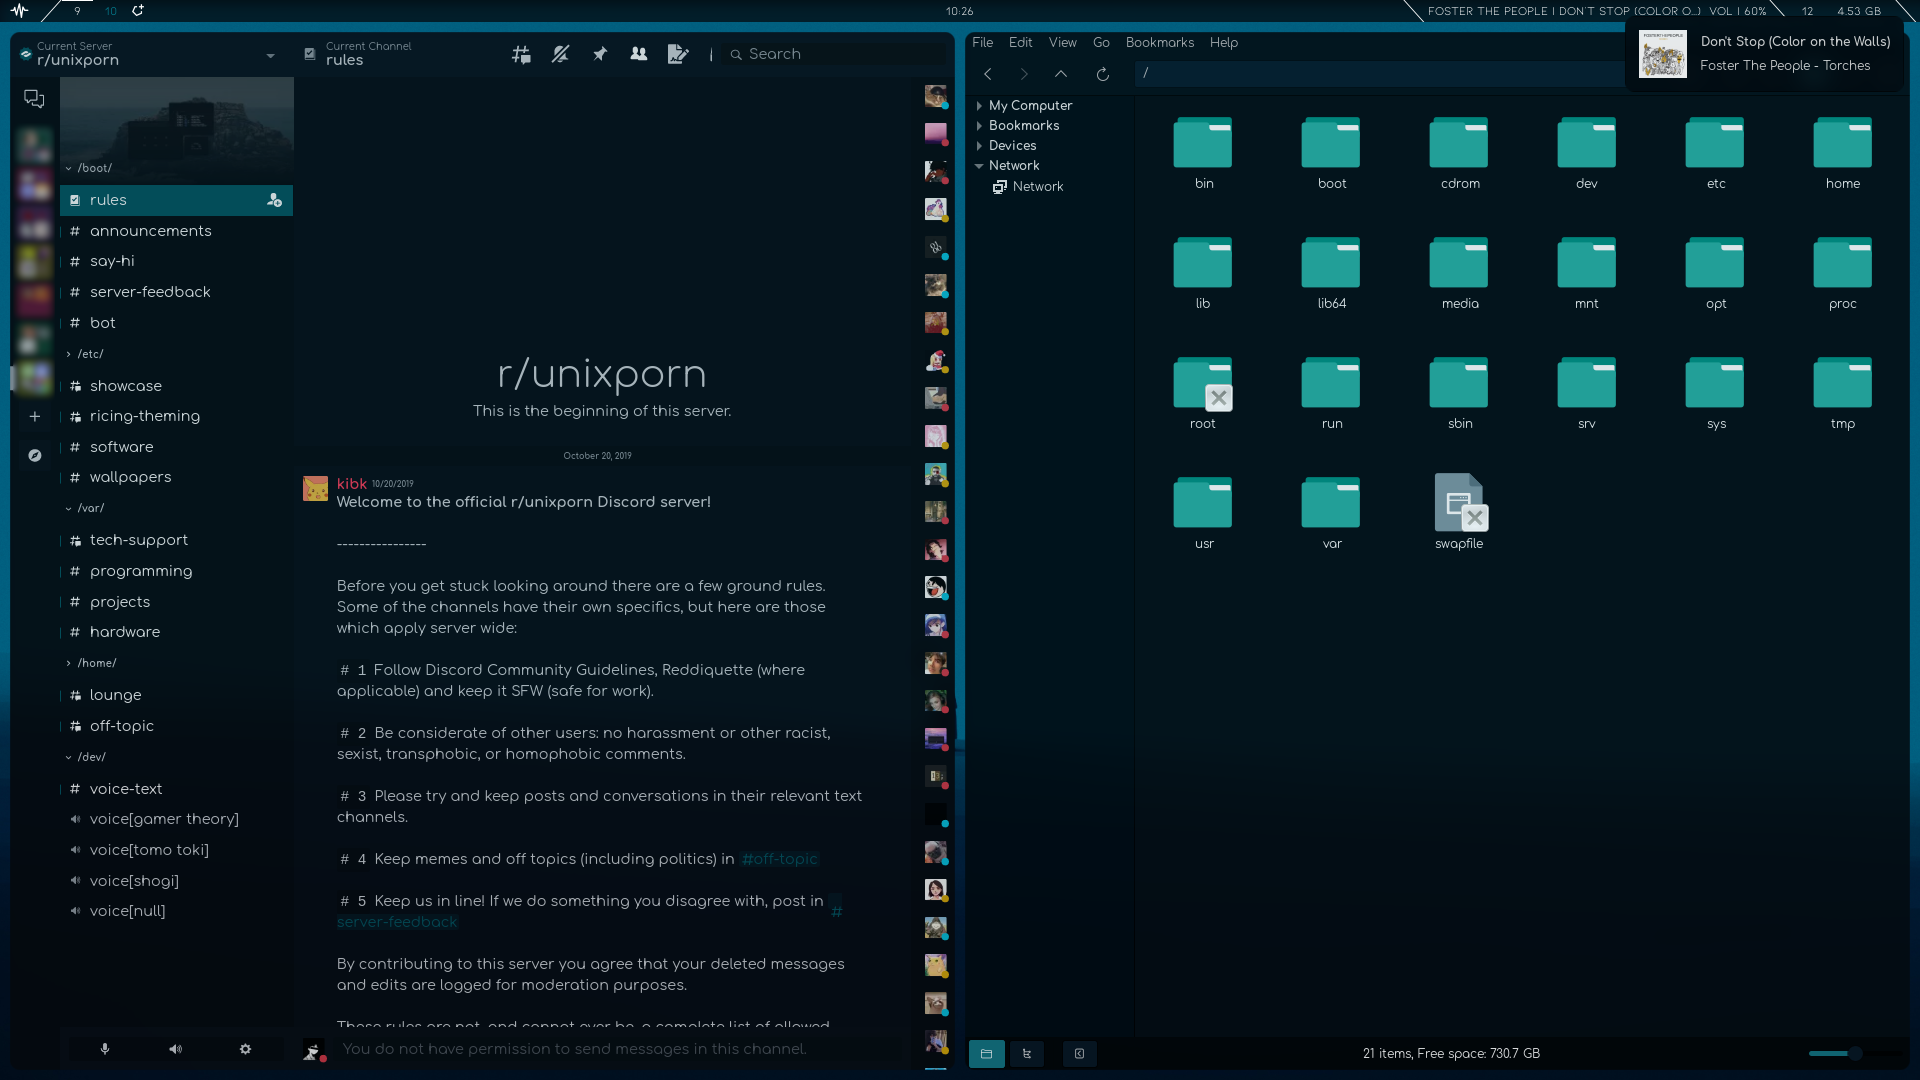
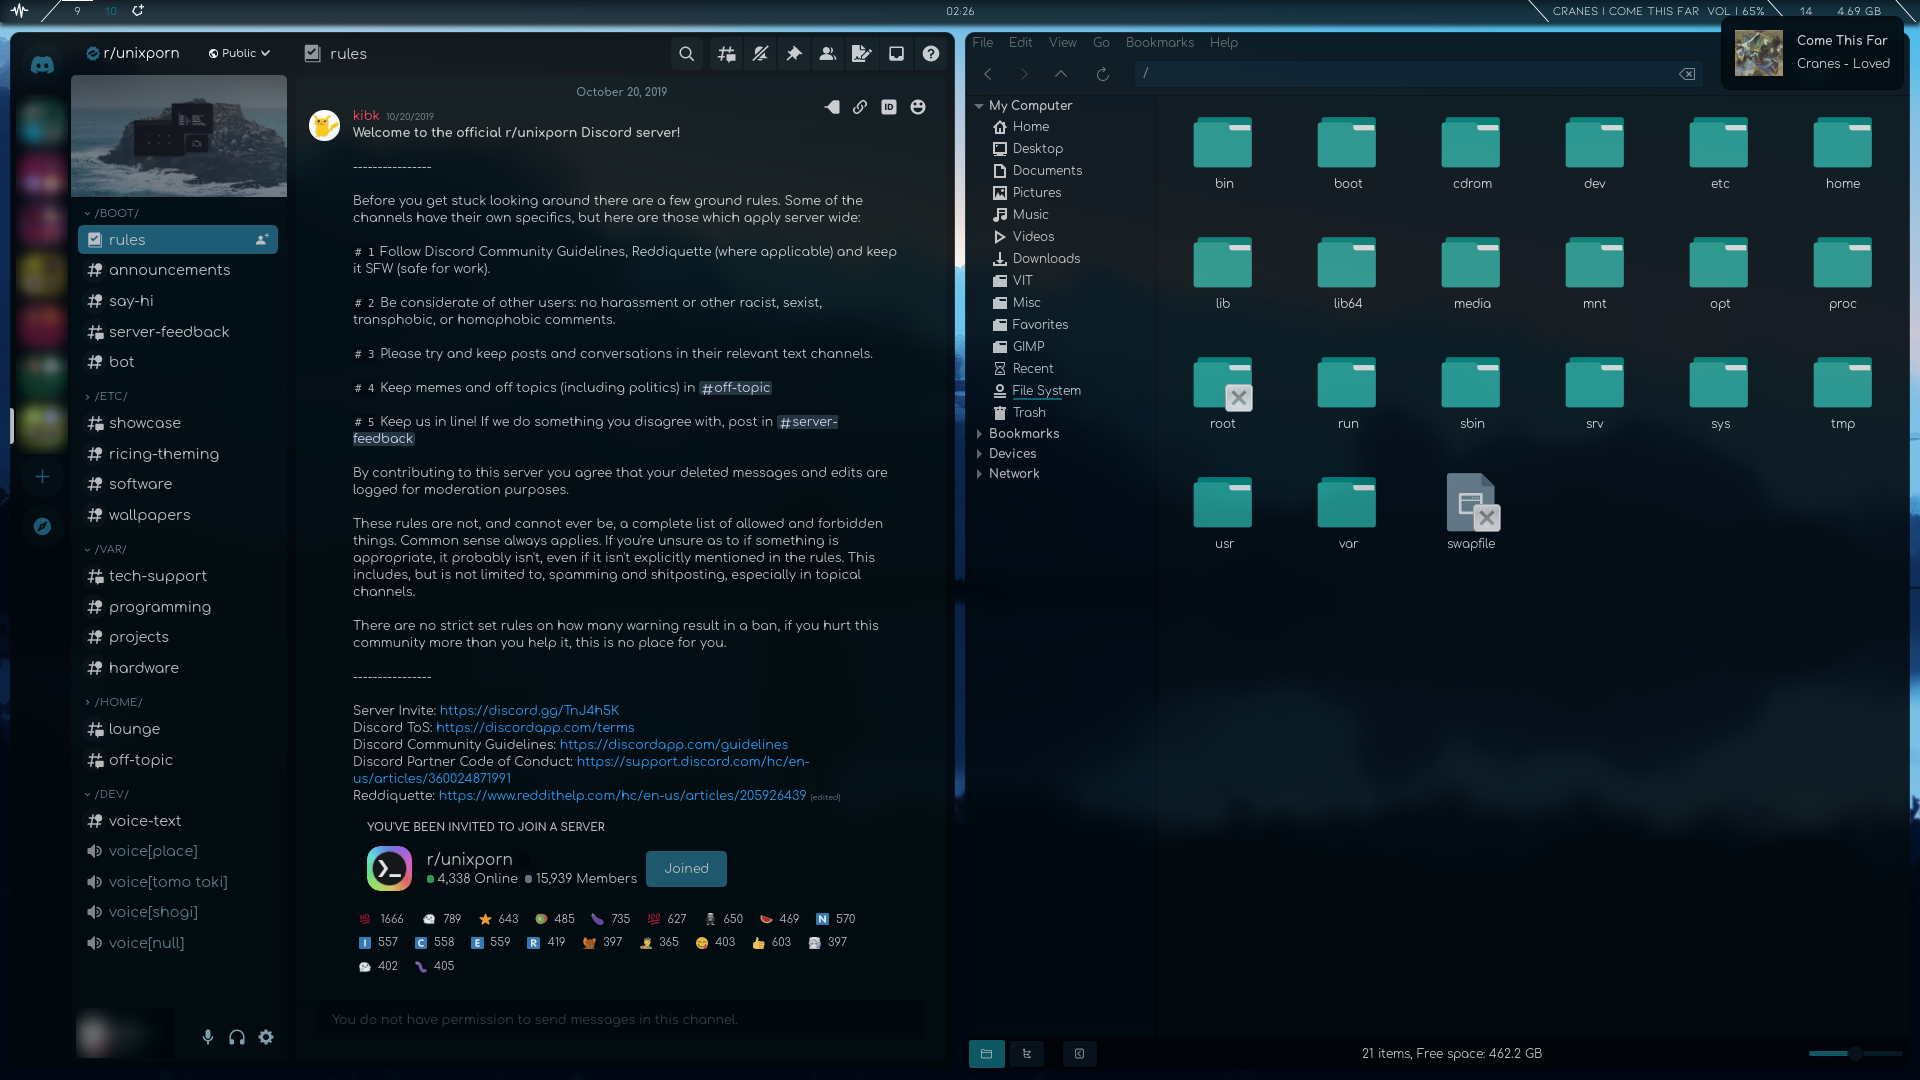
New Discord Theme, Fixed Spotify Theme

diff --git a/.config/BetterDiscord/themes/zelkBD.theme.css b/.config/BetterDiscord/themes/zelkBD.theme.css
@@ -1,0 +1,169 @@
+/**
+ * @name Zelk
+ * @version 1.2.2
+ * @description a smooth theme inspired by zorin
+ * @author schnensch
+ * @authorId 652801938374656013
+ * @source https://github.com/schnensch0/zelk
+ * @invite tMEcBhsNqA
+ */
+/*         ▀▀█ █▀▀ █   █ █
+           ▄▀  █▀▀ █   █▀▄
+           ▀▀▀ ▀▀▀ ▀▀▀ ▀ ▀           */
+ /*--------------IMPORTS------------- */
+@import url(https://schnensch0.github.io/zelk/main.css);
+@import url(https://discord-custom-covers.github.io/usrbg/dist/usrbg.css);
+@import url(https://mwittrien.github.io/BetterDiscordAddons/Themes/_res/SettingsIcons.css);
+/*--------------COLORS---------------*/
+/*------remove / and * to apply------*/
+/* @import url(https://raw.githack.com/schnensch0/zelk/main/colors/blue.css); */
+/* @import url(https://raw.githack.com/schnensch0/zelk/main/colors/green.css); */
+/* @import url(https://raw.githack.com/schnensch0/zelk/main/colors/gray.css); */
+/* @import url(https://raw.githack.com/schnensch0/zelk/main/colors/orange.css); */
+/* @import url(https://raw.githack.com/schnensch0/zelk/main/colors/purple.css); */
+/* @import url(https://raw.githack.com/schnensch0/zelk/main/colors/red.css); */
+/* @import url(https://raw.githack.com/schnensch0/zelk/main/colors/discord.css); */
+/*-------------VARIABLES-------------*/
+:root {
+  /* set to 'unset' to show */
+  --scrollbars: none;
+  /* user notes */
+  --notes: none;
+  /* direct message box */
+  --message: none;
+  /* set to '4px solid' to show */
+  --embed-color: none;
+  /* set to 'Inter', sans-serif !important to use Inter font*/
+  --font-primary: Whitney, "Helvetica Neue", Helvetica, Arial, sans-serif;
+  --font-display: Whitney, "Helvetica Neue", Helvetica, Arial, sans-serif !important;
+  --border-radius-1: 6px;
+  --border-radius-2: 5px;
+}
+/*-----------CUSTOM COLORS-----------*/
+/*-------------DARK MODE-------------*/
+/*---------------BASIC---------------*/
+.theme-dark {
+  --accent-color: #206179;
+  --background-1: #020c10;
+  --background-2: #02070a;
+  --background-accent: #02070a;
+  --border-color: #030b0e;
+}
+/*-------------LIGHT MODE------------*/
+.theme-light {
+  --accent-color: #22c5fd;
+  --background-1: #ffffff;
+  --background-2: #f5f7fa;
+  --background-accent: var(--background-2);
+  --border-color: transparent;
+}
+/*-------------ADVANCED--------------*/
+.theme-dark {
+  /* background */
+  --background-primary: var(--background-1);
+  --background-primary-alt: var(--background-1);
+  --background-secondary: var(--background-1);
+  --background-secondary-alt: var(--background-1);
+  --background-tertiary: var(--background-2);
+  --background-accent-gradient: var(--background-2);
+  --background-floating: var(--background-1);
+  --background-mentioned: #bde6fb10;
+  --background-mentioned-hover: #bde6fb15;
+  /* modifiers */
+  --background-modifier-hover: #121e25;
+  --background-modifier-active: #15262f;
+  --background-modifier-selected: var(--accent-color);
+  --background-modifier-accent: transparent;
+  --background-message-hover: transparent;
+  /* text */
+  --text-normal: #cccccc;
+  --text-positive: var(--text-normal);
+  --text-muted: #6d8692;
+  --text-link: #2fa5ff;
+  --interactive-selected: var(--text-normal);
+  --interactive-active: var(--text-normal);
+  --interactive-normal: var(--text-normal);
+  --interactive-muted: var(--button-background-active);
+  --channels-default: var(--text-muted);
+  --header-primary: var(--text-normal);
+  --header-secondary: var(--text-muted);
+  /* more */
+  --settings-icon-color: #8eacbc;
+  --control-brand-foreground: var(--accent-color);
+  --info-warning-foreground: var(--accent-color);
+  --tab-selected: #061920;
+  --switch: #3d4c53;
+  --activity-card-background: var(--background-1);
+  --brand-experiment: var(--accent-color) !important;
+  --elevation-high: 0 1px 4px 2px black !important;
+  /* buttons */
+  --button-background: #0a1216;
+  --button-background-hover: #06212f;
+  --button-background-active: #4d5f68;
+  --button-accent: var(--accent-color);
+  --button-accent-hover: #d2f3ff;
+  --button-accent-active: #8dd4f8;
+  --button-destructive: #fb7c7c;
+  --button-destructive-hover: #ff929b;
+  --button-destructive-active: #fa4a4a;
+}
+.theme-light {
+  /* background */
+  --background-primary: var(--background-1);
+  --background-primary-alt: var(--background-1);
+  --background-secondary: var(--background-1);
+  --background-secondary-alt: var(--background-1);
+  --background-tertiary: var(--background-2);
+  --background-accent-gradient: var(--background-2);
+  --background-floating: var(--background-1);
+  --background-mentioned: #22c5fd10;
+  --background-mentioned-hover: #22c5fd15;
+  /* modifiers */
+  --background-modifier-hover: transparent;
+  --background-modifier-active: #b7c2cc;
+  --background-modifier-selected: var(--accent-color);
+  --background-modifier-accent: transparent;
+  --background-message-hover: transparent;
+  /* text */
+  --text-normal: #123354;
+  --text-positive: var(--text-normal);
+  --text-muted: #8495a7;
+  --text-link: #15a6f0;
+  --interactive-selected: var(--background-primary);
+  --interactive-active: var(--text-normal);
+  --interactive-normal: var(--text-normal);
+  --interactive-muted: var(--text-muted);
+  --channels-default: var(--text-normal);
+  --header-primary: var(--text-normal);
+  --header-secondary: var(--text-muted);
+  /* more */
+  --settings-icon-color: #566e86;
+  --control-brand-foreground: var(--accent-color);
+  --info-warning-foreground: var(--accent-color);
+  --tab-selected: var(--background-1);
+  --switch: #c8d0d9;
+  --activity-card-background: var(--background-1);
+  --brand-experiment: var(--accent-color) !important;
+  /* buttons */
+  --button-background: var(--background-1);
+  --button-background-hover: #d3dae1;
+  --button-background-active: #b1bcc8;
+  --button-accent: var(--accent-color);
+  --button-accent-hover: #22c5fd;
+  --button-accent-active: #0d87c5;
+  --button-destructive: #fb7c7c;
+  --button-destructive-hover: #ff929b;
+  --button-destructive-active: #fa4a4a;
+}
+/*-----------DON'T CHANGE------------*/
+:root {
+  --outdated-122: none !important;
+}
+/*  usrbg | snippet by _david_#0218  */
+.userPopout-2j1gM4[style*="--user-background"] .banner-1YaD3N, .root-8LYsGj[style*="--user-background"] .banner-1YaD3N {
+  height: 120px;
+  background: var(--background-tertiary) var(--user-background) var(--user-popout-position, center) center / cover !important;
+}
+.root-8LYsGj[style*="--user-background"] .banner-1YaD3N {
+  height: 240px;
+}
